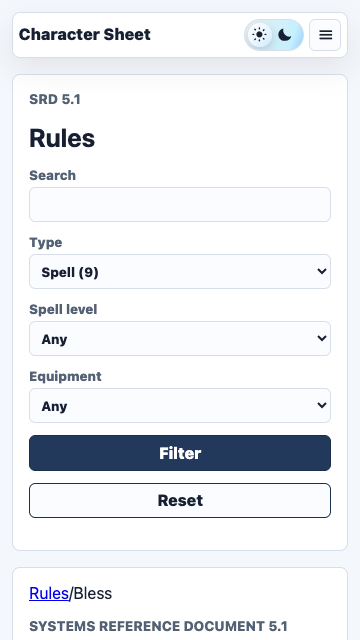
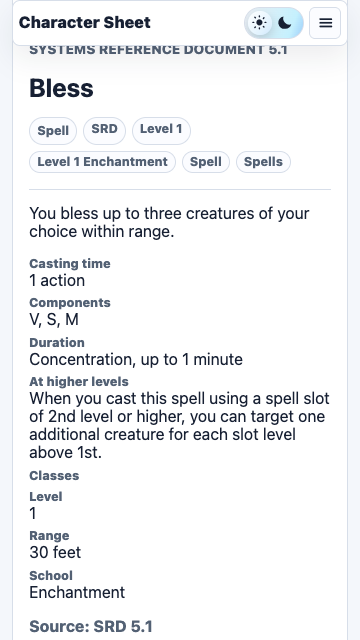
Frame rules screenshots on content

diff --git a/scripts/capture-screenshots.ts b/scripts/capture-screenshots.ts
@@ -160,6 +160,7 @@ export const sheetScreenshotTargets = [
     theme: "light",
   },
   {
+    action: "scroll-rules-results",
     fileName: "rules-spells.png",
     label: "Rules spell list",
     path: "/rules?type=spell&level=1",
@@ -167,6 +168,7 @@ export const sheetScreenshotTargets = [
     theme: "light",
   },
   {
+    action: "scroll-rule-detail",
     fileName: "rules-bless.png",
     label: "Rules Bless detail",
     path: "/rules/spell/bless",
@@ -263,7 +265,14 @@ export async function captureSheetScreenshots(
 
 async function runScreenshotAction(
   page: Page,
-  action: "edit-stealth" | "edit-strength" | "roll-stealth" | "scroll-admin-users" | "scroll-roster-table",
+  action:
+    | "edit-stealth"
+    | "edit-strength"
+    | "roll-stealth"
+    | "scroll-admin-users"
+    | "scroll-roster-table"
+    | "scroll-rule-detail"
+    | "scroll-rules-results",
 ) {
   if (action === "scroll-admin-users") {
     await scrollIntoView(page, ".admin-users-table");
@@ -272,6 +281,16 @@ async function runScreenshotAction(
 
   if (action === "scroll-roster-table") {
     await scrollIntoView(page, ".characters-table");
+    return;
+  }
+
+  if (action === "scroll-rule-detail") {
+    await scrollIntoView(page, "#rule-detail-heading", -24);
+    return;
+  }
+
+  if (action === "scroll-rules-results") {
+    await scrollIntoView(page, "#rules-results-heading", -16);
     return;
   }
 
@@ -299,10 +318,10 @@ async function runScreenshotAction(
   );
 }
 
-async function scrollIntoView(page: Page, selector: string) {
+async function scrollIntoView(page: Page, selector: string, offset = -72) {
   await page.waitForSelector(selector);
   await page.evaluate(
-    `document.querySelector(${JSON.stringify(selector)})?.scrollIntoView({ block: "start", inline: "nearest" }); window.scrollBy(0, -72); window.scrollTo(0, window.scrollY)`,
+    `document.querySelector(${JSON.stringify(selector)})?.scrollIntoView({ block: "start", inline: "nearest" }); window.scrollBy(0, ${offset}); window.scrollTo(0, window.scrollY)`,
   );
 }
 

diff --git a/scripts/capture-screenshots.test.ts b/scripts/capture-screenshots.test.ts
@@ -158,6 +158,7 @@ describe("sheet screenshot targets", () => {
         theme: "light",
       },
       {
+        action: "scroll-rules-results",
         fileName: "rules-spells.png",
         label: "Rules spell list",
         path: "/rules?type=spell&level=1",
@@ -165,6 +166,7 @@ describe("sheet screenshot targets", () => {
         theme: "light",
       },
       {
+        action: "scroll-rule-detail",
         fileName: "rules-bless.png",
         label: "Rules Bless detail",
         path: "/rules/spell/bless",